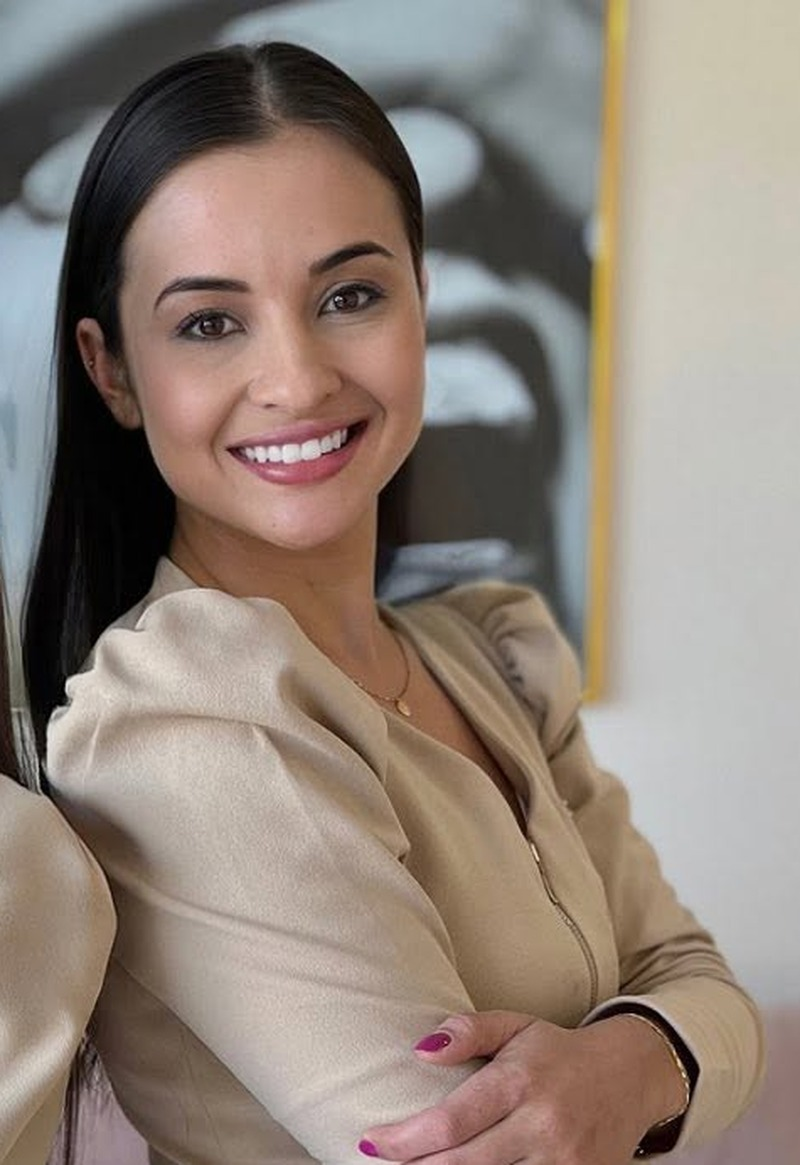
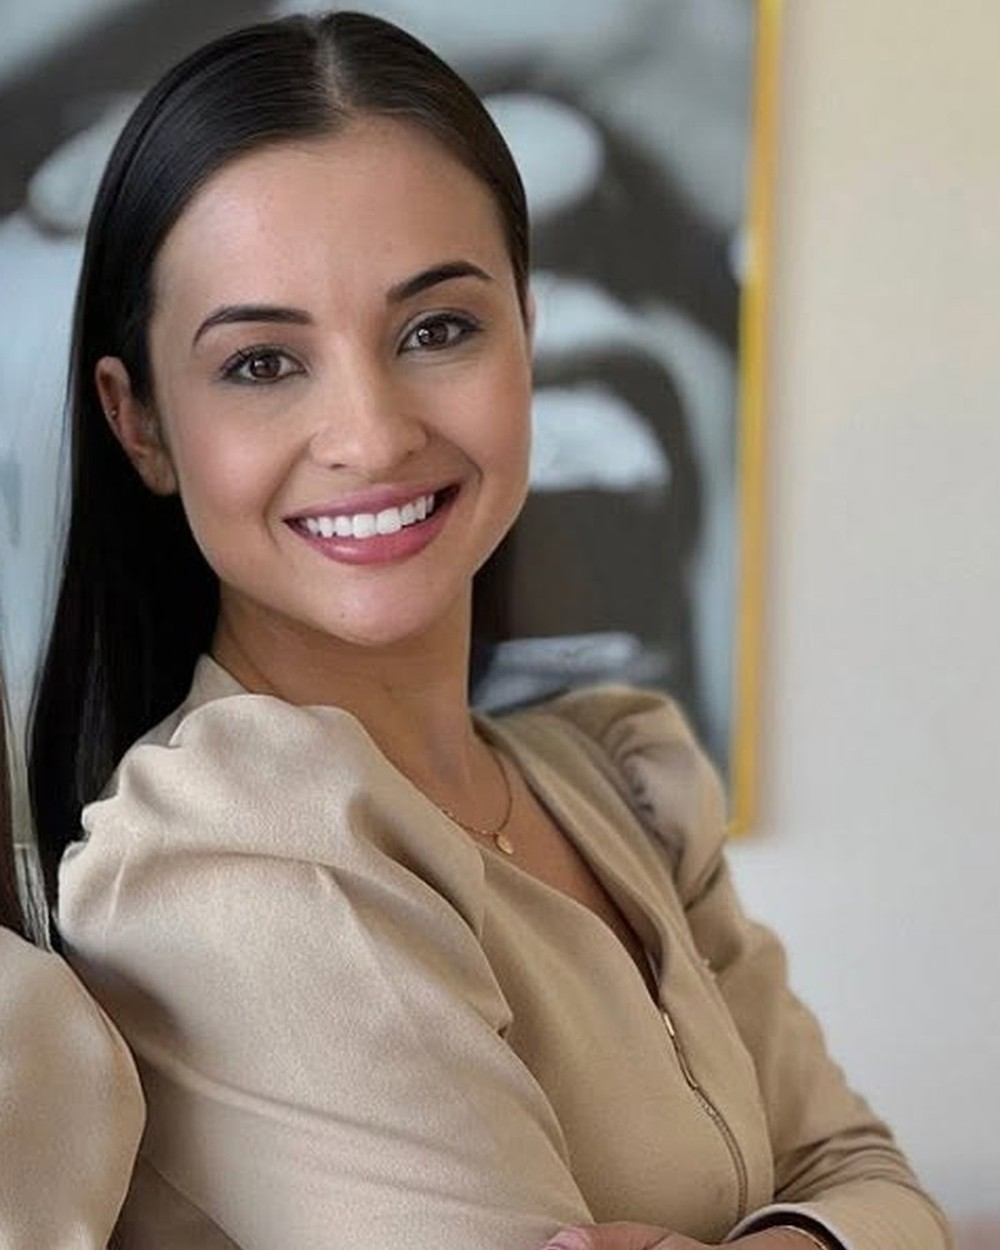
feat: equipe completa com Aryanna Lustre e fotos aprimoradas
Adiciona Dra. Aryanna Lustre (Medicina · Nutrologia), reforça fotos
da equipe em formato uniforme e inclui nutrologia nos cuidados.

diff --git a/apps/clinica-matsubara/src/data/site.ts b/apps/clinica-matsubara/src/data/site.ts
@@ -96,9 +96,9 @@ export const careRivers: CareRiver[] = [
     title: 'Especialidades',
     line: 'Cuidar também por dentro',
     detail:
-      'Psicologia, pediatria e especialidades no mesmo endereço — porque saúde, autoestima e equilíbrio emocional caminham juntos.',
+      'Psicologia, pediatria, nutrologia e especialidades no mesmo endereço — porque saúde, autoestima e equilíbrio caminham juntos.',
     image: 'care/especialidades.jpg',
-    accents: ['Psicologia', 'Pediatria', 'Bem-estar', 'Acompanhamento'],
+    accents: ['Psicologia', 'Pediatria', 'Nutrologia', 'Bem-estar'],
   },
 ]
 
@@ -142,6 +142,14 @@ export const team: TeamMember[] = [
     note: 'Biomédica esteta — resultados sutis e elegantes, com plano pensado para cada paciente.',
     image: 'team/larissa.jpg',
     objectPosition: 'center 12%',
+  },
+  {
+    id: 'aryanna',
+    name: 'Dra. Aryanna Lustre',
+    role: 'Medicina · Nutrologia',
+    note: 'Emagrecimento saudável, metabolismo e longevidade — ciência com escuta para transformar hábitos.',
+    image: 'team/aryanna.jpg',
+    objectPosition: 'center 14%',
   },
   {
     id: 'gabriela',
